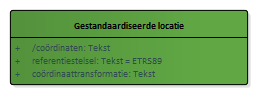
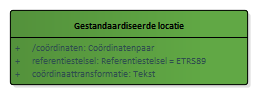
Conceptualmodel-MijnbouwconstructiesEPC-conceptueel-0.1versie27juli2020-1-20200727-20200828-172437

Changed region(s): [[0.3721, 0.5895, 0.8062, 0.6737], [0.3411, 0.4632, 0.6202, 0.5684]]

diff --git a/data/EPC-cat.msword.html b/data/EPC-cat.msword.html
@@ -15,7 +15,7 @@
    <body>
       <p>Conceptual model/Mijnbouwconstructies (EPC) - conceptueel/20200727</p>
       <p>Imvertor: 1.61.2</p>
-      <p>Model release: Conceptualmodel-MijnbouwconstructiesEPC-conceptueel-0.1versie27juli2020-1-20200727-20200828-161313</p>
+      <p>Model release: Conceptualmodel-MijnbouwconstructiesEPC-conceptueel-0.1versie27juli2020-1-20200727-20200828-172437</p>
       <hr>
       <section>
          <h1>Artikel 1 Definitie van registratieobject, entiteiten en attributen</h1>
@@ -336,7 +336,7 @@
                               <th>Toelichting</th>
                               <td>
                                  
-                                 <p>Het gegeven is door de dataleverancier bij de overdracht meegegeven</p>
+                                 <p>Het gegeven is door de dataleverancier bij de overdracht meegegeven.</p>
                                  </td>
                            </tr>
                         </tbody>
@@ -1251,6 +1251,14 @@
                               <td>Attribuut van Aangeleverde locatie</td>
                            </tr>
                            <tr>
+                              <th>Definitie</th>
+                              <td>
+                                 
+                                 <p>De aanduiding die aangeeft of het vergunninggebied aan de landzijde van de mijnbouwgrens
+                                    ligt.</p>
+                                 </td>
+                           </tr>
+                           <tr>
                               <th>Juridische status</th>
                               <td>Authentiek</td>
                            </tr>
@@ -1282,6 +1290,14 @@
                            <tr>
                               <th>Type gegeven</th>
                               <td>Attribuut van Aangeleverde locatie</td>
+                           </tr>
+                           <tr>
+                              <th>Definitie</th>
+                              <td>
+                                 
+                                 <p>De aanduiding die aangeeft of een aangeleverd coördinaat voor de locatiebepaling al
+                                    in een eerder stadium is omgerekend naar een voor de BRO gangbaar referentiestelsel.</p>
+                                 </td>
                            </tr>
                            <tr>
                               <th>Juridische status</th>
@@ -1317,6 +1333,14 @@
                               <td>Attribuut van Aangeleverde locatie</td>
                            </tr>
                            <tr>
+                              <th>Definitie</th>
+                              <td>
+                                 
+                                 <p>Van en naar welk referentiestelsel de aangeleverde locatie al in een eerder stadium
+                                    is omgerekend om de locatie aan te kunnen leveren in een voor de BRO gangbaar referentiestelsel.</p>
+                                 </td>
+                           </tr>
+                           <tr>
                               <th>Juridische status</th>
                               <td>Authentiek</td>
                            </tr>
@@ -1331,6 +1355,13 @@
                            <tr>
                               <th>&nbsp;&nbsp;Naam</th>
                               <td>Tekst </td>
+                           </tr>
+                           <tr>
+                              <th>Regels</th>
+                              <td>
+                                 
+                                 <p>De coördinaattransformatie is alleen ingevuld wanneer attribuut <em>omgerekend</em> is <em>Ja</em>.</p>
+                                 </td>
                            </tr>
                         </tbody>
                      </table>
@@ -2436,7 +2467,7 @@
                            </tr>
                            <tr>
                               <th>&nbsp;&nbsp;Naam</th>
-                              <td>Tekst </td>
+                              <td>Coördinatenpaar</td>
                            </tr>
                         </tbody>
                      </table>
@@ -2472,7 +2503,11 @@
                            </tr>
                            <tr>
                               <th>&nbsp;&nbsp;Naam</th>
-                              <td>Tekst </td>
+                              <td><a class="link" href="#detail_class_Model_Referentiestelsel">Referentiestelsel</a></td>
+                           </tr>
+                           <tr>
+                              <th>&nbsp;&nbsp;Type</th>
+                              <td>Waardelijst uitbreidbaar</td>
                            </tr>
                         </tbody>
                      </table>
